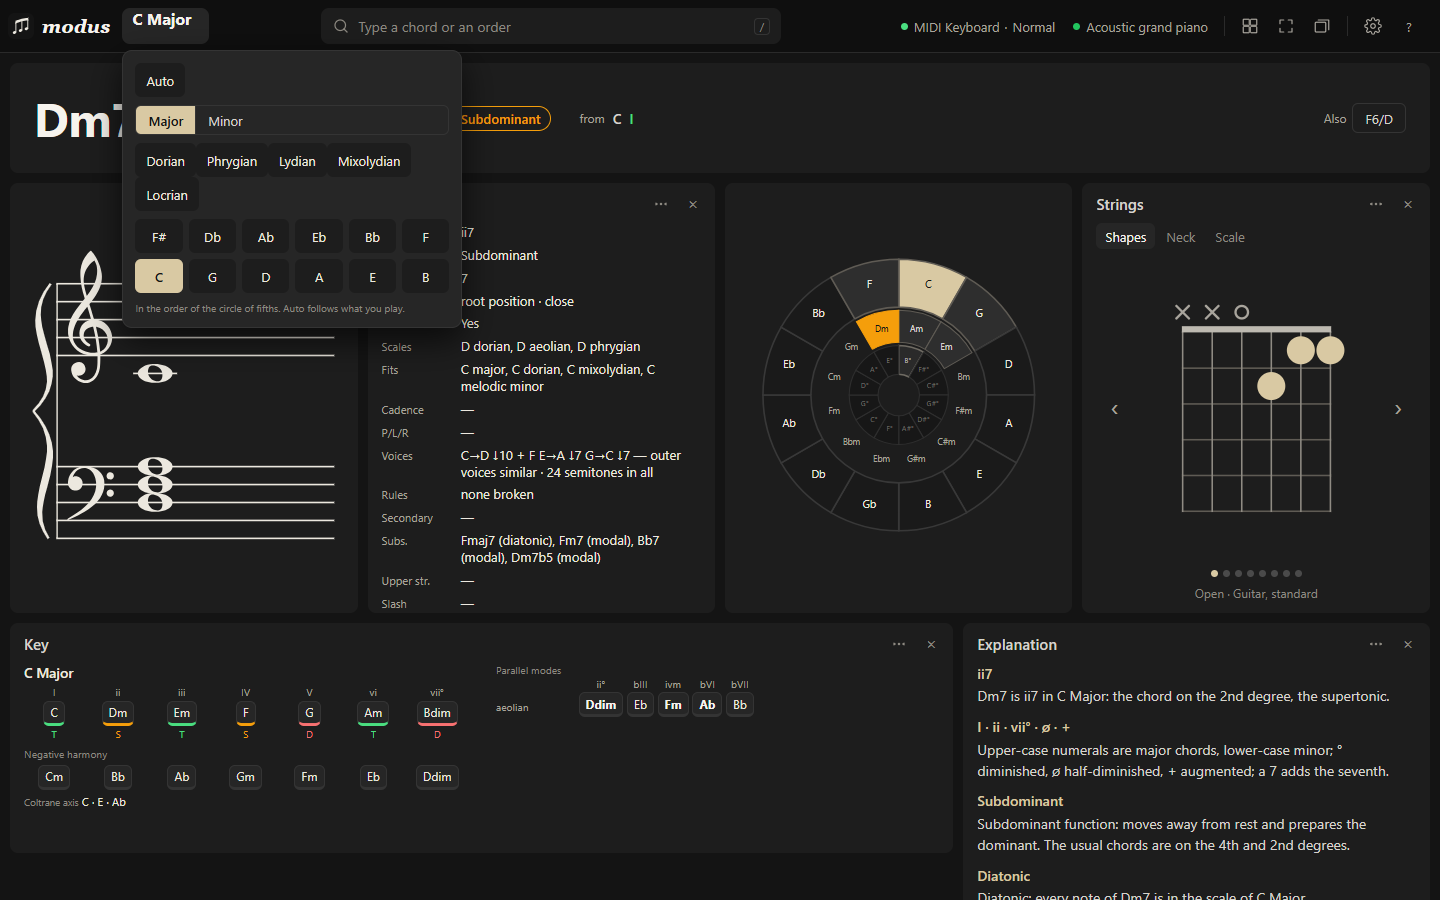
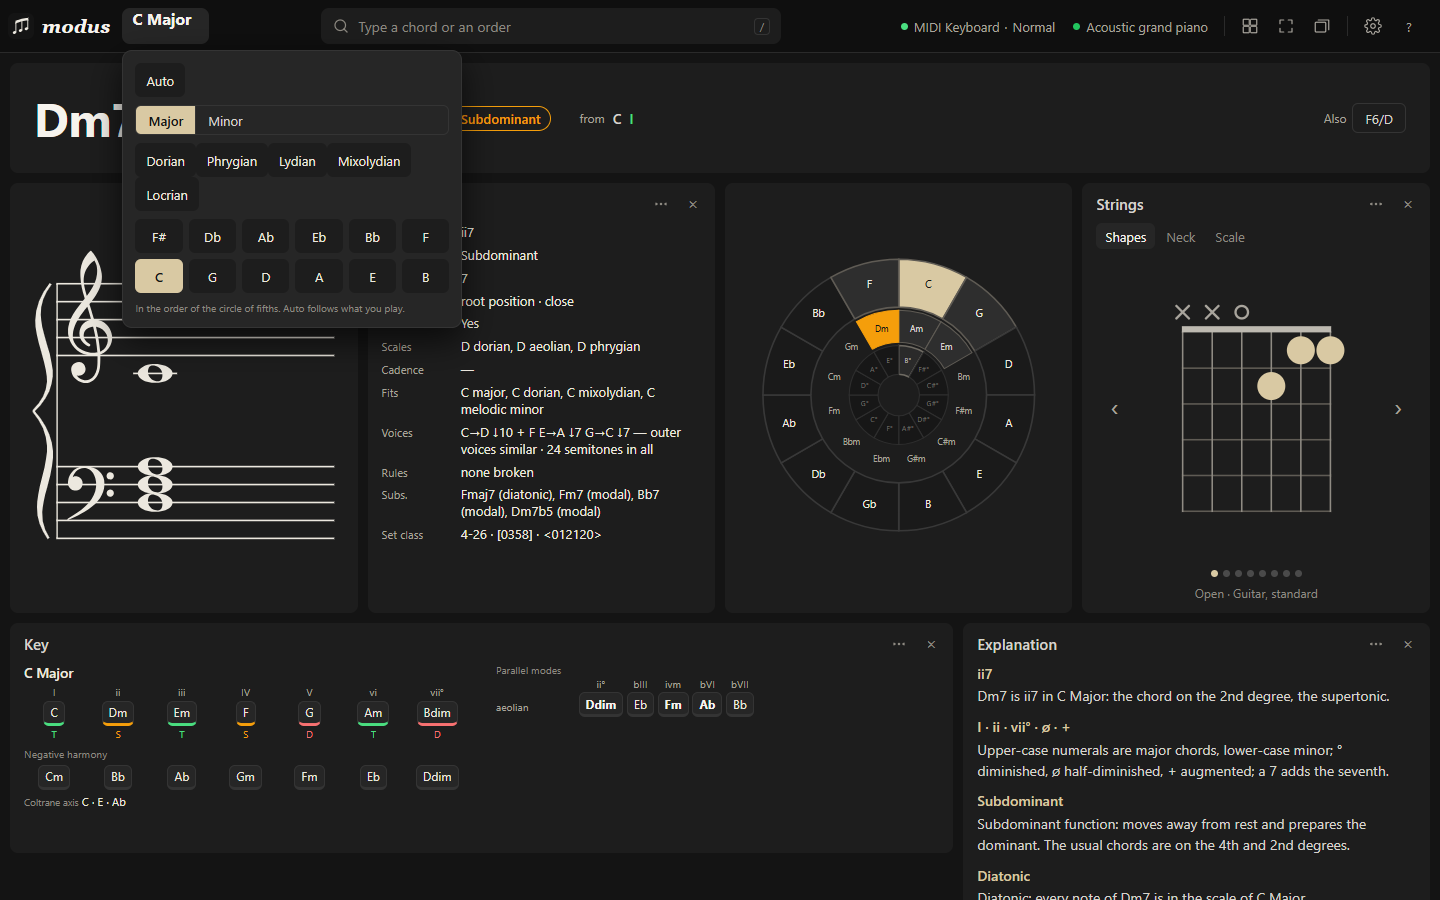
Regenerate screenshots for the new idle state, Analysis rows and grouped layout menu; update guide text and state

Changed region(s): [[0.2812, 0.4044, 0.4688, 0.6222], [0.25, 0.4044, 0.2812, 0.56], [0.25, 0.5911, 0.2812, 0.6533]]

diff --git a/state.md b/state.md
@@ -17,7 +17,7 @@ What is true now. What already happened lives in `state-history.md`.
 ## Status
 
 - **Fase:** terminado por ahora, publicado (set by the user 2026-11-21). The user waits for what users say; the closing in TODO is what remains before resting
-- **Retomar por:** TODO › Closing, step 6 (screenshots and the Pages demo), then step 7 (the tag, when the user says)
+- **Retomar por:** TODO › Closing, step 7 (the tag, when the user says); confirm CI and deploy of the last push
 - Working: detector, analysis with voice leading, explanation, key panel (diatonic chords, negative harmony, parallel modes, Coltrane axis), history, song builder with several saved songs (each with its own key), audio, CoF, strings panel (any fretted instrument, shapes or neck), piano, isomorphic keyboard, velocity, grand staff, progressions, ear training, player, microphone and tuner, metronome, modular layout and presentation, view windows for OBS and export, MIDI out, input channel filter, offline and installable, keyboard and screen reader, touch, guided tour. What is open is in TODO: the closing, and what is left outside it on purpose
 - Audio: controller notes follow velocity, note-off and sustain pedal; previews cut the previous one; master volume; the app starts without the soundfont-player script
 - Tests 2026-10-27: TSC clean, 474 unit tests against the real UMT bundle, `pnpm test:e2e` 109/109, whole walk again 2026-10-27 (installed Chrome + fake Web MIDI, Chrome-style and Firefox-style hot-plug), `pnpm test:e2e:midi` 12/12 on 2026-10-27 in Chrome and Firefox through loopMIDI, MIDI out included (it needs a second input: the MPK or a second loopMIDI port). Firefox and a real controller checked by hand, including hot-plug with loopMIDI present. Key panel checked in headless Firefox
@@ -73,7 +73,7 @@ The app is published and the user waits to see what users say. Everything below 
 3. [x] Tablet upright, 2026-11-21: 721 to 1000 px has two columns in layout order (`twoColumns`, `WIDE` = 7 columns takes both, narrow ones in pairs, the layout stored untouched, no dragging; spec › Layout). Seen at 768 and 1000 px in headless Chrome (screenshots of Standard, no overlap, no horizontal scroll); unit tests and an e2e check. Not tried on a real tablet. Left as it is, as on a phone: a text panel keeps its layout rows and scrolls (Ear training at 768 px shows its chips cut at 190 px)
 4. [x] The first screen, 2026-11-21. Decided with the user: no example chord (nothing is shown that nobody played). At rest Analysis is one line and the Chord panel says the ways to start with the user's own keys; a field that only some chords have is left out when it has no value, the chord's own fields keep "—" (spec › Analysis fields, "What a row shows"). The rest of the empty panels (Key, Explanation, Song, History, Tuner) are as they were. The README and guide screenshots predate it (step 6)
 5. [x] Join what teaches, 2026-11-21: the Explanation's cadence, borrowed ♭VI/♭VII and interval carry **Hear** (plays UMT's example in Progressions) and **Practise** (opens that kind in Ear training, asks nothing); only where a real example or kind exists (spec › Explanation). Hierarchy: Standard puts the tools (player, tuner, metronome) last, after the history and the song, and the layout menu lists panels under Harmony, Practice and Tools. Stored layouts are not touched. Not linked, no match: secondary dominants, tritone substitutes, P/L/R, the Roman numeral and the chord quality (Ear training's Chords and Degrees have no term to come from)
-6. [ ] The Pages demo: after 3 to 5, the published app and its screenshots (`docs/modus-demo.png`, `docs/modus-phone.png`, `docs/guide/img/`) match the app. A push to `main` publishes the site, so it waits for the user's go
+6. [x] The Pages demo, 2026-11-21: `modus-demo.png` and the guide's input, key, layout and views menus and `transcribing.png` regenerated from the new app (idle state, Analysis rows, Standard order, grouped menu); guide text adjusted (grouped menu, Hear and Practise). The Pages site is the built app, so it updates with the push, together with `0662bd6`
 7. [ ] Tag `v0.1.0` (version in `package.json`), when the user says
 
 ### Open, left outside the closing on purpose (the same list is in `docs/spec.md`, Open)

diff --git a/docs/guide/getting-started.md b/docs/guide/getting-started.md
@@ -25,9 +25,9 @@ The key at the top left of the bar sets the key you play in. Leave it on **Auto*
 
 ## The page
 
-Everything is a panel on a grid. Drag one by its title, resize it from its corner, hide it with ×. Its options are in its ⋯ menu. The ▦ button in the bar has ready-made layouts — Standard, Study, Class, Transcription, Recording — keeps layouts you save with a name, and has a box per panel to show or hide it. Panels snap to the grid and the others make room; nothing overlaps.
+Everything is a panel on a grid. Drag one by its title, resize it from its corner, hide it with ×. Its options are in its ⋯ menu. The ▦ button in the bar has ready-made layouts — Standard, Study, Class, Transcription, Recording — keeps layouts you save with a name, and has a box per panel to show or hide it, grouped under Harmony, Practice and Tools. Panels snap to the grid and the others make room; nothing overlaps.
 
-![The layouts menu: five ready-made layouts, a field to save your own, and a box for each panel](img/layout-menu.png)
+![The layouts menu: five ready-made layouts, a field to save your own, and a box for each panel, grouped](img/layout-menu.png)
 
 ## Input modes
 

diff --git a/docs/guide/studying.md b/docs/guide/studying.md
@@ -6,7 +6,7 @@ Play a chord and ask Modus why it is what it is.
 
 With a key set, the **Chord** panel shows the name, its numeral (`ii7`, `V7/V`, `bVII`) and its function — Tonic, Subdominant or Dominant. **Analysis** adds the figured bass, the voicing (inversion, close or open, drop 2, doubled and missing notes), the scales that fit, substitutions and the cadence from the chord before. Its ⋯ menu picks which rows to show.
 
-**Explanation** says each of those in words for the chord on screen: why D7 is V7/V, which mode a borrowed chord comes from and which notes are foreign to the key, what the cadence does. The cadence tags in the history explain themselves in their tooltip.
+**Explanation** says each of those in words for the chord on screen: why D7 is V7/V, which mode a borrowed chord comes from and which notes are foreign to the key, what the cadence does. Where there is a real example, the entry has **Hear** (plays it in Progressions) and **Practise** (opens that kind in Ear training). The cadence tags in the history explain themselves in their tooltip.
 
 ## Study a key
 
